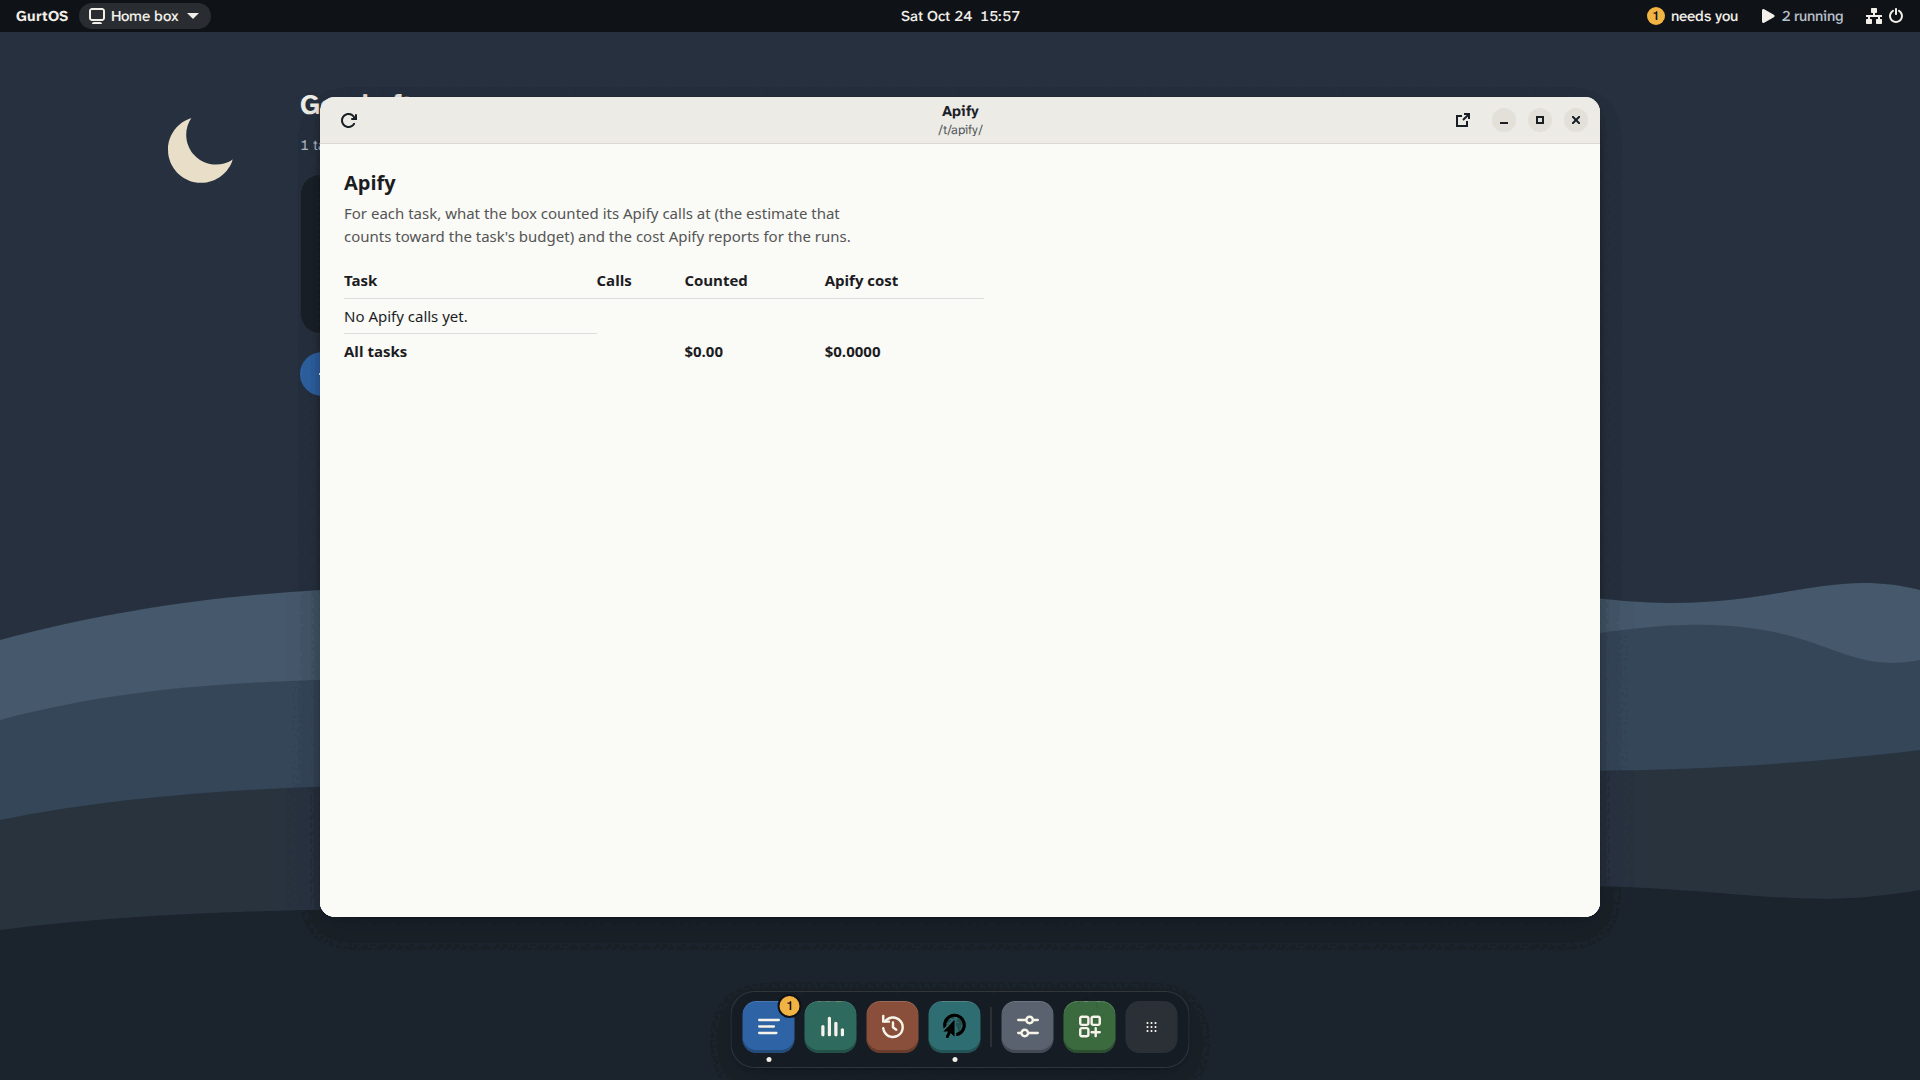
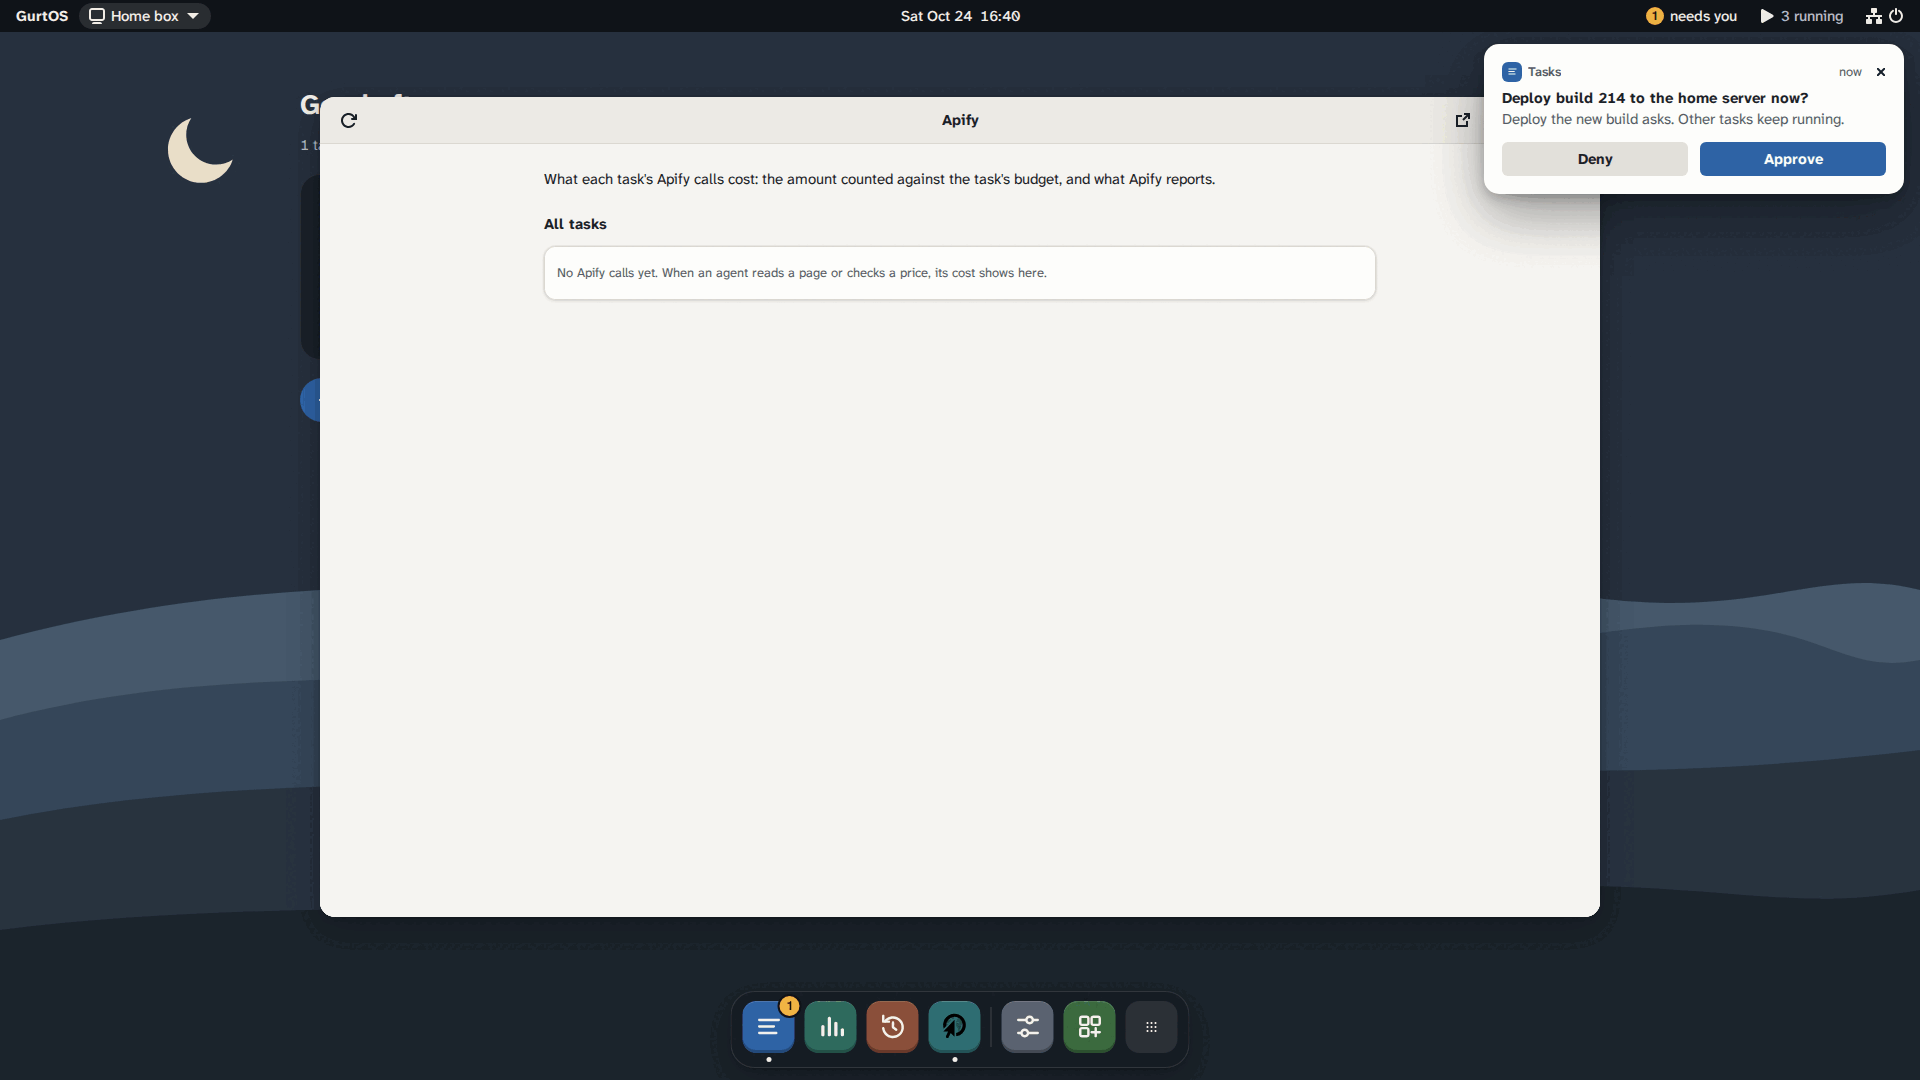
UX audit: A-1 fixed

diff --git a/docs/ux/audit.md b/docs/ux/audit.md
@@ -18,12 +18,11 @@ How it was walked:
 
 ## Status
 
-**Fixed 67, closed 1, open 24** (92 findings: 19 web, 22 Server, 36 Personal, 15 parity). Each fixed
+**Fixed 68, closed 1, open 23** (92 findings: 19 web, 22 Server, 36 Personal, 15 parity). Each fixed
 finding gets a **Fixed** line with the commit and an after-screenshot in `after/`.
 
 | Owner | Open |
 |---|---|
-| apify track | A-1 |
 | personal | P-29 waits for Ben |
 | image | S2, S15, S16, S24, P-4, P-17, P-28, E-1 to E-11, E-15, then P-1 with release |
 | personal (parity) | E-14 (re-measuring) |
@@ -351,6 +350,9 @@ Its own H1, browser-default table, and "what the box counted" (`after/srv-app-ap
 Factory and the Live board (9c6a719, bd87b04), "No Apify calls yet. When an agent reads a page or checks a price,
 its cost shows here.", and "this computer". Owner: apify track.
 
+
+**Fixed in 8ae9448** (apify): the kit, task titles, the plain intro and empty state, light and dark.
+![](after/srv-app-apify.png) ![](after/srv-app-apify-dark.png) Reaches the installed computers with the final deploy.
 ### S27. P2. App windows show their URL path as a subtitle
 "/t/spacetime/", "/t/factory/" under the window title (`after/srv-app-live.png`). Fix: no subtitle, or the app's
 one-line description. Owner: portal.
